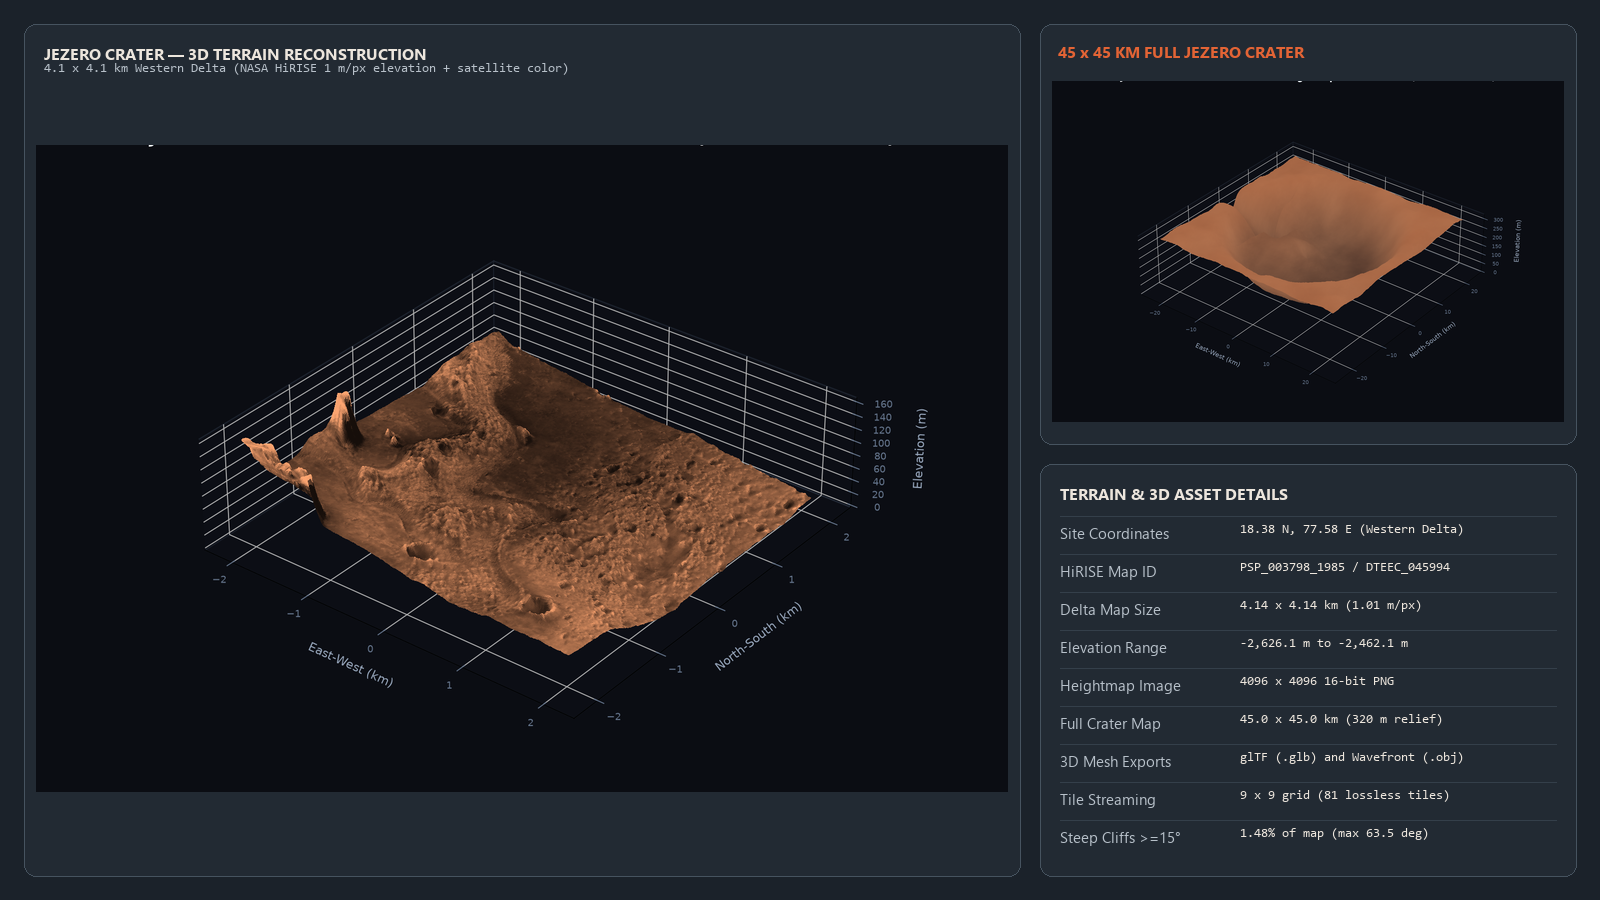
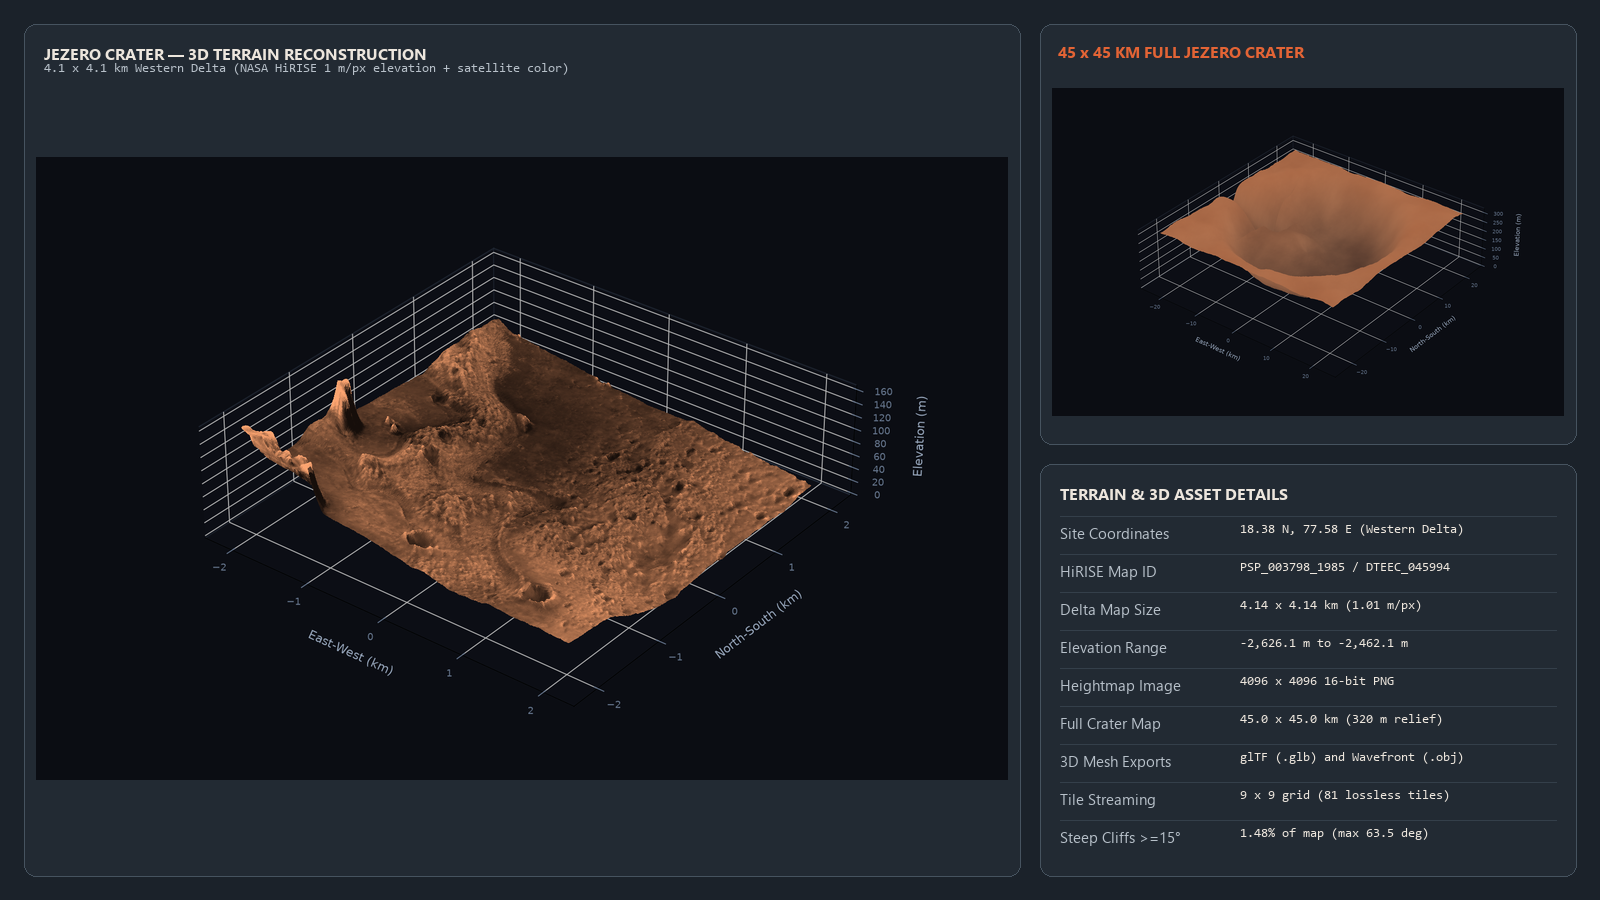
Fix simulator caption overflow, optimize mobile layout, and restore Launch 3D Simulator CTA

diff --git a/style.css b/style.css
@@ -518,9 +518,9 @@ button:focus-visible {
 .meters { list-style: none; margin: 20px 0 18px; }
 .meters li {
     display: grid;
-    grid-template-columns: 112px 1fr 64px;
+    grid-template-columns: 104px minmax(60px, 1fr) 42px;
     align-items: center;
-    gap: 12px;
+    gap: 10px;
     padding: 10px 0;
     border-top: 1px solid var(--line-soft);
     font-size: 14px;
@@ -582,11 +582,11 @@ button:focus-visible {
     color: var(--ink);
 }
 
-/* The frame. Any image you drop in is cropped to fill it (16:9). */
+/* The frame. 16:9 visual sits above a dedicated caption bar with zero overlap. */
 .sim-stage {
     position: relative;
+    display: grid;
     width: 100%;
-    aspect-ratio: 16 / 9;
     background: var(--bg-darker);
     border: 1px solid var(--line);
     border-radius: 12px;
@@ -594,26 +594,31 @@ button:focus-visible {
 }
 
 .slide {
-    position: absolute;
-    inset: 0;
+    grid-area: 1 / 1;
+    position: relative;
+    display: flex;
+    flex-direction: column;
     margin: 0;
     opacity: 0;
     visibility: hidden;
+    pointer-events: none;
     transition: opacity 0.45s ease, visibility 0.45s;
 }
 
 .slide.is-active {
     opacity: 1;
     visibility: visible;
+    pointer-events: auto;
 }
 
 .slide img {
-    position: absolute;
-    inset: 0;
+    position: relative;
     width: 100%;
-    height: 100%;
+    aspect-ratio: 16 / 9;
+    height: auto;
     object-fit: contain;
     object-position: center;
+    display: block;
     opacity: 0;
 }
 
@@ -622,18 +627,16 @@ button:focus-visible {
 }
 
 .slide figcaption {
-    position: absolute;
-    left: 16px;
-    bottom: 14px;
-    max-width: calc(100% - 32px);
-    padding: 8px 14px;
-    border-radius: 8px;
-    border: 1px solid rgba(70, 83, 95, 0.8);
+    position: relative;
+    width: 100%;
+    max-width: 100%;
+    padding: 12px 18px;
+    border-top: 1px solid var(--line-soft);
     font-family: var(--mono);
     font-size: 12.5px;
+    line-height: 1.5;
     color: var(--sand);
-    background: rgba(16, 21, 26, 0.86);
-    backdrop-filter: blur(8px);
+    background: rgba(16, 21, 26, 0.92);
     opacity: 0;
 }
 
@@ -1000,21 +1003,63 @@ button:focus-visible {
     font-weight: 600;
 }
 
+@media (max-width: 960px) {
+    .nav-links {
+        gap: 10px 18px;
+        font-size: 14px;
+    }
+
+    .hero-inner {
+        gap: 28px;
+    }
+
+    .split {
+        gap: 36px;
+    }
+}
+
 @media (max-width: 700px) {
+    .wrap {
+        width: min(var(--max), 100% - 32px);
+    }
+
+    .nav-inner {
+        padding: 16px 0;
+        gap: 10px;
+    }
+
+    .brand {
+        font-size: 15px;
+        letter-spacing: 0.12em;
+        gap: 8px;
+    }
+
+    .brand-mark {
+        width: 28px;
+        height: 28px;
+    }
+
     .nav-links a:not(.btn) {
         display: none;
     }
 
+    .nav-links .btn-sm {
+        padding: 9px 14px;
+        font-size: 13.5px;
+        white-space: nowrap;
+    }
+
     .section {
-        padding: 64px 0;
+        padding: 56px 0;
     }
 
     .hero {
-        padding-bottom: 80px;
+        padding: 16px 0 48px;
     }
 
     .hero-inner {
         grid-template-columns: 1fr;
+        gap: 24px;
     }
 
     .hero-logo {
@@ -1022,11 +1067,172 @@ button:focus-visible {
     }
 
     .sun {
-        max-width: 220px;
+        max-width: 190px;
     }
 
-    .sim-stage {
-        aspect-ratio: 4 / 3;
+    .hero-copy h1 {
+        font-size: clamp(2.1rem, 8vw, 2.85rem);
+    }
+
+    .lead {
+        font-size: 16.5px;
+        margin-top: 16px;
+    }
+
+    .cta-row {
+        margin-top: 24px;
+        gap: 10px;
+    }
+
+    .strip-inner {
+        gap: 8px 20px;
+        padding: 18px 0;
+    }
+
+    .strip-inner .eyebrow {
+        width: 100%;
+        margin-bottom: 2px;
+    }
+
+    .split {
+        gap: 28px;
+    }
+
+    .split-text,
+    .stack {
+        flex: 1 1 100%;
+    }
+
+    .fact {
+        padding: 18px;
+        gap: 14px;
+    }
+
+    .fact svg {
+        width: 32px;
+        height: 32px;
+    }
+
+    .fact h3 {
+        font-size: 19px;
+    }
+
+    .steps {
+        margin-top: 32px;
+        display: grid;
+        grid-template-columns: repeat(2, minmax(0, 1fr));
+        gap: 24px 16px;
+    }
+
+    .num {
+        font-size: 42px;
+    }
+
+    .step h3 {
+        font-size: 20px;
+        margin: 10px 0 6px;
+    }
+
+    .cards {
+        margin-top: 32px;
+        gap: 16px;
+    }
+
+    .card,
+    .spot,
+    .tile {
+        flex: 1 1 100%;
+    }
+
+    .spot,
+    .tile,
+    .tech-card {
+        padding: 20px;
+    }
+
+    .sim {
+        margin-top: 28px;
+    }
+
+    .sim-tabs {
+        display: grid;
+        grid-template-columns: repeat(3, minmax(0, 1fr));
+        gap: 8px;
+    }
+
+    .sim-tab {
+        padding: 8px 10px;
+        font-size: 13px;
+        min-height: 40px;
+        text-align: center;
+    }
+
+    .slide figcaption {
+        padding: 10px 14px;
+        font-size: 11.5px;
+    }
+
+    .captions {
+        margin-top: 20px;
+        gap: 14px;
+    }
+
+    .captions p {
+        flex: 1 1 100%;
+        font-size: 14px;
+    }
+
+    .spec-summary-grid {
+        grid-template-columns: repeat(2, minmax(0, 1fr));
+        gap: 12px;
+    }
+
+    .stat-box {
+        padding: 14px;
+    }
+
+    .stat-box .v {
+        font-size: 22px;
+    }
+
+    .spec-table th,
+    .spec-table td {
+        padding: 10px 12px;
+        font-size: 12.5px;
+    }
+
+    .code-block {
+        padding: 12px;
+        font-size: 11.5px;
+    }
+
+    .foot-inner {
+        padding: 36px 0;
+        gap: 20px;
+    }
+
+    .foot-logo {
+        width: 150px;
+    }
+}
+
+@media (max-width: 480px) {
+    .cta-row .btn {
+        width: 100%;
+        text-align: center;
+    }
+
+    .steps {
+        grid-template-columns: 1fr;
+        gap: 20px;
+    }
+
+    .sim-tabs {
+        grid-template-columns: repeat(2, minmax(0, 1fr));
+    }
+
+    .spec-summary-grid {
+        grid-template-columns: 1fr;
     }
 }
 

diff --git a/index.html b/index.html
@@ -31,7 +31,7 @@
                 <a href="#layers">Hazard layers</a>
                 <a href="#simulator">Terrain &amp; maps</a>
                 <a href="#specs">Tech specs</a>
-                <a href="#simulator" class="btn btn-main btn-sm">See the maps</a>
+                <a href="#simulator" class="btn btn-main btn-sm">Launch 3D Simulator</a>
             </nav>
         </div>
     </header>
@@ -46,7 +46,7 @@
                     <h1>Plan a safe <span>Marswalk</span> before you step outside.</h1>
                     <p class="lead">ARES-MAP turns weather, radiation, and terrain data from NASA's Mars missions into a 3D hazard map of Jezero Crater, helping astronauts check surface conditions for any Martian day and hour.</p>
                     <div class="cta-row">
-                        <a href="#simulator" class="btn btn-main">Explore the hazard maps</a>
+                        <a href="#simulator" class="btn btn-main">Launch 3D Simulator</a>
                         <a href="#specs" class="btn btn-line">Jump to technical specs</a>
                     </div>
                     <p class="small">Landing site: Jezero Crater's western delta (18.38°N, 77.58°E), built from Perseverance weather logs, Curiosity radiation readings, and 1-meter HiRISE elevation maps.</p>
@@ -522,7 +522,7 @@
             <div class="wrap">
                 <h2>See the Jezero Crater terrain and hazard layers in action.</h2>
                 <div class="cta-row center">
-                    <a href="#simulator" class="btn btn-main">Explore the hazard maps</a>
+                    <a href="#simulator" class="btn btn-main">Launch 3D Simulator</a>
                     <a href="#top" class="btn btn-line">Back to top</a>
                 </div>
             </div>
